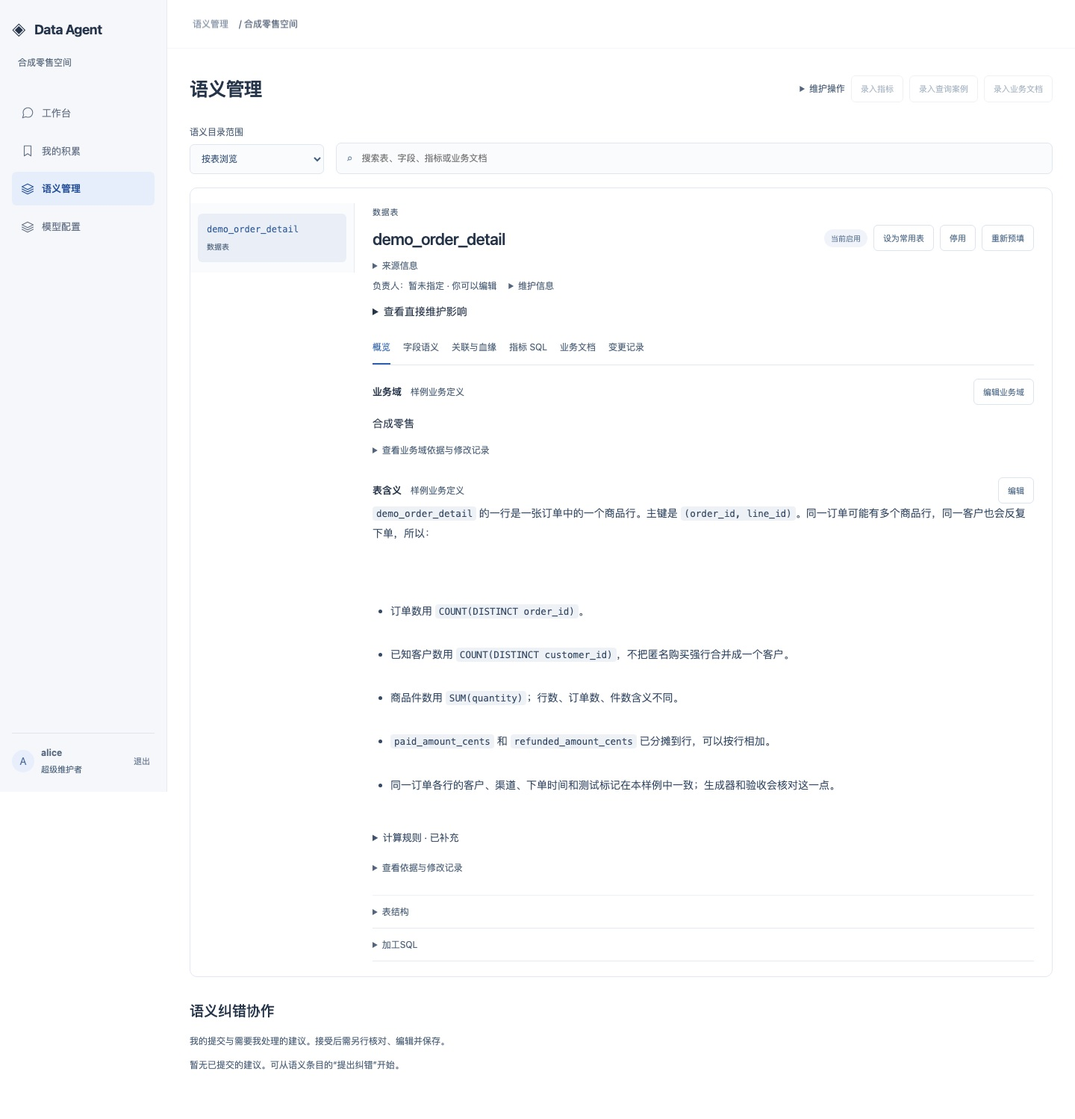
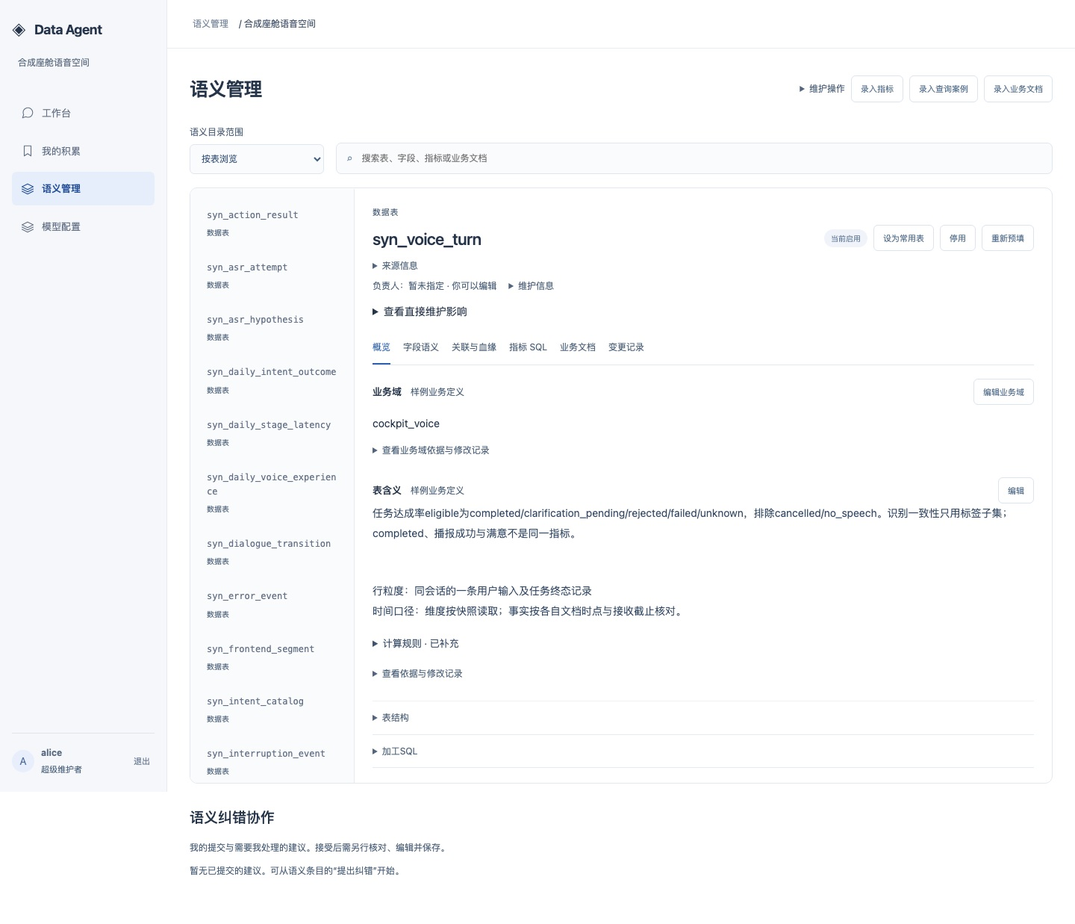
docs: refresh cockpit trial handoff and workbench screenshots

diff --git a/docs/CURRENT.md b/docs/CURRENT.md
@@ -2,12 +2,12 @@
 {
   "workflow": "development",
   "schema": 1,
-  "phase": "implementation",
-  "goal_revision": 78,
-  "environment": "提交上一轮修复；准备唯一默认数字座舱合成资料与递进Dogfood包，完成后交接给其他agent，不运行新真实Dogfood。",
+  "phase": "handoff",
+  "goal_revision": 79,
+  "environment": "座舱语音资料、100项递进Dogfood、默认mock接入及README截图完成；本地27173使用新资料，停止新增试用并交接。",
   "verification": {
     "level": "increment",
-    "reason": "保留原失败；新增通用业务、协议及浏览器回归，并独立核对修复与边界。",
+    "reason": "核对合成语音数据、语义定义、独立参考和实际API/Pi/平台/UI接入；固定mock不替代真实模型质量试用。",
     "freshness": "content",
     "checks": [],
     "inputs": [
@@ -32,8 +32,8 @@
     "increment": {
       "id": "I2-COCKPIT-DOGFOOD",
       "phase": "I2",
-      "status": "active",
-      "goal": "公开的数字座舱合成资料（至少20表10文档，计划28表14文档）与100项从易到难Dogfood交接；默认mock实际加载新资料并可执行。",
+      "status": "complete",
+      "goal": "公开的数字座舱语音交互链路合成资料（至少20表10文档，计划28表14文档）与100项递进Dogfood；默认mock加载新资料，资料准备完成后停止，不代跑真实试用。",
       "requirements": [
         "D04",
         "D06",
@@ -85,7 +85,8 @@
         "docs/architecture/implementation-design.md",
         "docs/development.md",
         "README.md",
-        "Makefile"
+        "Makefile",
+        "docs/images"
       ],
       "acceptance": [
         {
@@ -129,7 +130,7 @@
             "C07",
             "C08"
           ],
-          "expected": "新资料真实API/Worker/合成平台加载、完整目录/来源/派生血缘读取和固定mock演示；0官方调用。",
+          "expected": "真实API/Worker/合成平台导入543语义对象及17来源，完整保留全部人工正文和结构；28表/421字段/3加工节点与固定Pi草稿授权结果链、实际语义首屏通过，0官方调用。",
           "evidence_kind": "runtime",
           "command": [
             "node",
@@ -148,23 +149,22 @@
             "C07",
             "C08"
           ],
-          "expected": "契约、代码、架构和文档链接检查通过，旧测试夹具不混入新默认库。",
+          "expected": "契约、代码与架构检查通过，旧测试夹具不混入新默认库；材料链接检查另列收尾证据，不作为业务完成替代。",
           "evidence_kind": "contract",
           "command": [
             "make",
             "verify-contracts",
             "verify-code",
-            "verify-architecture",
-            "verify-materials"
+            "verify-architecture"
           ],
           "timeout_seconds": 1200
         }
       ],
       "review": {
-        "status": "pending",
+        "status": "passed",
         "record": "docs/reviews/cockpit-dogfood-review.json"
       },
-      "evidence": null
+      "evidence": ".local/delivery/I2-COCKPIT-DOGFOOD-result.json"
     }
   }
 }
@@ -174,11 +174,24 @@
 
 ## 数字座舱合成资料与Dogfood交接（2026-10-22）
 
-用户授权先提交/推送上一轮修复、同步README/文档/必要图片并更新服务，再把默认mock换成丰富数字座舱合成资料，至少20张表和10份文档；重新准备大量递进Dogfood，最后停下交给其他agent试用。计划28表、至少300字段、14份独立文档、100项案例。新增内容完全从零构造，不读取或改名复制公司资料，也不以个人记忆里的专属字段/口径作为输入。
+用户授权先提交/推送上一轮修复、同步README/文档/必要图片并更新服务，再把默认mock换成丰富数字座舱合成资料，至少20张表和10份文档；重新准备大量递进Dogfood，最后停下交给其他agent试用。计划28表、至少300字段、14份独立文档、100项案例。用户进一步明确聚焦座舱语音交互链路：唤醒/VAD/ASR/NLU与槽位/多轮对话/技能路由/动作执行回执/TTS播报/打断/反馈/端云重试；车型、版本和网络仅作背景维度。不需要原始音频。初版泛座舱（独立导航、媒体、OTA大盘）草案已作废，未进入正式资料包。需要的交互文本也完全合成，不复用真实对话。新增内容完全从零构造，不读取或改名复制公司资料，也不以个人记忆里的专属字段/口径作为输入。
 
 用户进一步明确旧零售可直接删除，不做双数据集产品、兼容迁移或旧演示维护。日常入口/语义/演示/新用例以座舱为唯一默认；仅保留现有回归确实依赖的最小零售夹具并明确选择。使用新运行目录/库切换，无需把旧查询改标成新数据。新的知识允许列表仅包含DDL、ETL及业务定义；独立数值参考、生成器和评分不进入模型输入。本轮只验证资料自洽和固定mock接入，不执行新的真实Agent Dogfood。
 
-上一轮13组增量验收与18条真实模型消息的版本证据继续保存于`.local/delivery/I2-AGENT-RELIABILITY-REPAIRS-result.json`和`.local/dogfood-runs/repairs-20261022/`。准备新包时核对默认模拟策略也要采用已实现的来源答案交付，这项兼容会补本地固定演示验证，不扩成模型规划器。当前进度/有效决定只维护本记录。
+上一轮业务修复与文档分别提交为`78262bf`、`8610110`，已快进合入默认分支`codex/semantic-maintenance-prototype`并推送。补充默认mock结果来源工具兼容的实际Pi/Rust/SQLite两消息检查通过（0官方调用），独立记录为`docs/reviews/mock-answer-compatibility-review.json`。上一轮13组增量验收与18条真实模型消息的版本证据继续保存于`.local/delivery/I2-AGENT-RELIABILITY-REPAIRS-result.json`和`.local/dogfood-runs/repairs-20261022/`。准备新包时核对默认模拟策略也要采用已实现的来源答案交付，这项兼容会补本地固定演示验证，不扩成模型规划器。当前进度/有效决定只维护本记录。
+
+资料最终为28张表、421字段、54外键、26指标、14业务文档；31,055行种子，经三个日汇总加工后33,304行。独立审查复算18,100个日指标单元格和8,286处跨表身份，核对通过。100项分L0–L6七级，含52条独立SQL参考，所有试用记录保持not_run；来源准备检查不替代真实Agent试用。
+
+接入和资料审查发现并修正：ETL字面控制字符造成Python/Rust来源正文不一致；日表SQL对半日区间静默截断；意图标签分母说明漏eligible；复杂题缺少实际重叠/多段播放/迟到回执见证；人工定义由JSON原文整理成多行正文时刷新被误清空；首屏字段挤占表目录。修复保持原引用、权限、Pi循环和单消息24次限制。9月已有407轮TTS/播放重叠、14轮多段播报、6轮父轮次及时而回执晚到。日表只支持UTC整日，非整日须回明细，参考区分首音前与完整观测窗口。
+
+验收与要求变更：统一验收器禁止把verify-materials计作业务完成，故该检查从工程验收组合移到独立收尾证据，已实际通过，未删除任何业务断言或降低要求。旧UI回归的示例名称改为语音链路概览；延迟轮询拦截URL同步为既有grouped目录接口，保持原迟到响应/人工保存断言。新试用S09补排名参考，J09改为实际可观测的TTS尝试/播放片段并明确无chunk计数，X03参考补动作及实际播报范围；没有放宽正确性或用mock替换真实模型验收。12项ingestion单元、543对象全部人工正文与结构实际导入比对及固定Pi/SQLite/UI六组验证通过。最终统一验收、独立审查、截图和Git/服务交付结果在本节收尾记录。
+
+收尾验证：来源聚合检查包含19项数据不变量及26指标76次范围检查；试用包52条独立SQL通过实际合成平台编译/执行/分页，66页1900保存行与参考一致，11项由原始记录另算。541同源契约、Rust/TypeScript/构建/架构/材料检查通过；旧工作台9组和资产页2组回归通过。README四张截图重拍为新语音资料的正式界面，模型配置图与通用架构图核对后沿用。所有截图均受控工具、实际SQL与来源答案，0付费调用。
+
+本地默认环境为`.local/development-cockpit`，工作台27173/API30780/Bridge30781/平台30790，mock/builtin/lexical，API与页面健康通过；旧零售服务已停止。检索观察：同题`syn_voice_turn`两次词法搜索HTTP200、30候选且首位目标正确，耗时12.495秒（常驻）/15.116秒（隔离），只记录为下一轮性能试用观察，不声称完成性能优化。新100项真实模型试用仍全部not_run。私有环境交接为`.local/cockpit-dogfood/HANDOFF.md`。
+
+最终四组`make verify-increment`全部通过，收据`.local/delivery/I2-COCKPIT-DOGFOOD-result.json`绑定本次实际文件；独立审查`docs/reviews/cockpit-dogfood-review.json`通过。资料与用例提交`d5bce9b`，接入修复提交`1785dcd`，README/图片/文档和当前记录单独提交。交付沿既定规则先快进合入默认分支`codex/semantic-maintenance-prototype`再推送；Git与本地服务最终核对回执保存于`.local/cockpit-dogfood/`。本轮到资料与环境交接为止，100项结果不预填通过。
+
 
 
 ## 第二版 Dogfood 根因修复（2026-10-22）

diff --git a/docs/development.md b/docs/development.md
@@ -93,7 +93,9 @@ make vm-stop
 
 ## 4. 正式工作台与增量检查
 
-`make dev` 构建Rust和React，并启动API（8780）、Pi Bridge（8781）、Worker及Vite（5173）。全部仅监听回环地址；端口已占用时失败，不关闭其他进程。用`.local/development/identities.json`中的alice或bob值登录，文件由启动器生成并设为0600。已有身份文件保留；Ctrl+C仅关闭当前应用进程，MySQL会话数据保留。`make verify-startup`验证同一启动器后自行停止。
+`make dev` 构建Rust和React，并启动API（8780）、Pi Bridge（8781）、Worker及Vite（5173）。全部仅监听回环地址；端口已占用时失败，不关闭其他进程。用`.local/development-cockpit/identities.json`中的alice或bob值登录，文件由启动器生成并设为0600。已有身份文件保留；Ctrl+C仅关闭当前应用进程，MySQL会话数据保留。`make verify-startup`验证同一启动器后自行停止。
+
+默认来源为`docs/sources/cockpit`，日常运行目录为`.local/development-cockpit`。mock启动器按运行目录建立稳定的独立MySQL库，并写出不含凭据的`environment.json`；API、Worker和平台共同加载这份资料。换运行目录会得到另一隔离环境，重启同一目录保留会话。旧零售只用于已有回归测试，测试显式选择旧来源，不与新日常库混用。
 
 本地身份文件可添加开发账号（例如 `carol`），使用独立生成的64字符随机凭据；重启启动器后生效。`internal` 仅供服务间调用，不注册为登录账号。新增身份本身不授予语义维护权：在本地 Datasight mock 的 `catalog.json` 中指定样例表的 `maintainer_id`，由超级维护者调用 `/source-syncs` 同步后，表负责人才能编辑相应语义。这样可同时保留超级维护者、表语义维护者和普通用户进行试用。
 
@@ -165,7 +167,9 @@ python3 scripts/development.py --model deepseek \
 
 ### 定向试用与问题复核
 
-使用120项手册时，API、Worker与平台统一指定`DATA_AGENT_SYNTHETIC_SOURCE_DIRECTORY=docs/sources/analysis`。该资料是连续月份样例，与默认旧样例分开；不能混用另一运行目录的参考数字。角色在实际环境重新核对，凭据只取相应运行目录的`identities.json`，不要放进报告或模型提示。
+当前使用[座舱语音100项试用包](dogfood/cockpit/README.md)，按准备说明检查资料与服务，真实模型试用另按用户授权执行。`make verify-cockpit`只检查数据、语义、用例和固定mock接入，不代跑100项真实试用。
+
+重放历史120项手册时，API、Worker与平台统一指定`DATA_AGENT_SYNTHETIC_SOURCE_DIRECTORY=docs/sources/analysis`。该资料是历史连续月份零售夹具，与当前座舱语音默认资料分开；不能混用另一运行目录的参考数字。角色在实际环境重新核对，凭据只取相应运行目录的`identities.json`，不要放进报告或模型提示。
 
 优先按[试用交叉审计](reviews/dogfood-20261019.md)复测限定域查空/明确扩大、歧义先澄清/已采用口径直接继续、整数分/元两位，以及含粘贴SQL的修改后执行。模型行为查看实际工具参数、回执与持久回复，不能只看回复是否声称遵守范围。执行被明确拒绝后可在原请求仍有效时修正工具参数；unknown则沿原身份查证，保留预留，不能换ID重做。
 
@@ -400,16 +404,18 @@ node tests/mvp/check-asset-editor-browser.mjs
 - **业务文档**：打开一篇完整文档，使用“编辑文档”修改全文，包括标题、序言和章节。一次保存核对全体版本；发生冲突保留草稿。全文读取不截断，单次保存上限10万字符，超限在编辑时提示并保留草稿。旧的后台分段引用继续有效地参与权限和版本检查。
 - **我的积累**：新增Skill可从三个示例开始，再改写内容和适用范围。文本附件使用英文名称（例如 `report.md`），目录前缀由页面补齐；保存之后仍需明确选用。字段变化会撤销旧核对标记。
 
-可执行合成平台包含 `demo_order_detail`、`raw_order_lines`、`raw_payments`、`dim_customers`、`customer_tags` 五张表。语义目录中不同来源的记录数不等于实际表数。没有把同名但来源不同的对象自动合并；千表与真实 Datasight 仍需单独接入验收。
+默认可执行合成平台包含28张`syn_`语音链路表，详见[资料说明](sources/cockpit/README.md)。历史零售五表仅供已有回归。语义目录中不同来源的记录数不等于实际表数。没有把同名但来源不同的对象自动合并；千表与真实 Datasight 仍需单独接入验收。
 
 本轮针对性验证入口：`check-message-markdown.mjs`、`check-conversation-experience-browser.mjs`、`check-knowledge-experience-browser.mjs`、`check-asset-experience-browser.mjs`。`check-experience-regressions.mjs`复跑原资产、语义协作与管理按钮的受影响流程；命令均位于 `tests/mvp`，使用隔离数据，不修改试用库。完成状态与结果只以 [CURRENT](CURRENT.md) 的本增量记录为准。
 
 ## 聊天生成、修订和执行 SQL
 
-1. 提问“查2026年1月净收入”，查看SQL和参数，当前不会取数。
-2. 发送“仅看app渠道”，SQL更新，仍不执行。
-3. 发送“执行上面这条”，查询完成后自动显示结果与实际执行SQL；合成样例为1600分。
-4. 也可发送“改成2月，再执行”，同条消息完成修订及执行；“只改成2月”则只展示新稿。
+以下为真实模型的交互方式；默认mock只演示达成率草稿、执行及两个说明入口。
+
+1. 提问“查2026年9月语音任务达成率”，查看SQL和参数，当前不会取数。
+2. 发送“按车型分组”，SQL更新，仍不执行。
+3. 发送“执行上面这条”，查询完成后自动显示结果与实际执行SQL，达成数、分母和百分比分列。
+4. 也可发送“改成8月，再执行”，同条消息完成修订及执行；“只改成8月”则只展示新稿。
 
 可以粘贴自己的SQL及参数要求执行，也可直接引用上文。代码框右上复制包含SQL和以JSON注释标明的绑定参数；这些值由Agent读取，外部客户端需自行绑定。指代不明时Agent先问清楚。运行中“停止”只作用于该查询，取消完成以平台回执为准。
 

diff --git a/docs/images/README.md b/docs/images/README.md
@@ -1,6 +1,6 @@
 # README 图片来源
 
-这些图片用于[项目首页](../../README.md)，共 11 张：1 张封面、4 张概念说明图、5 张实际页面截图和 1 张正式架构图。四张说明图和五张页面截图于 2026-10-20 更新。
+这些图片用于[项目首页](../../README.md)，共 11 张：1 张封面、4 张概念说明图、5 张实际页面截图和 1 张正式架构图。四张说明图和模型配置截图于 2026-10-20 更新；工作台、报告、语义管理和个人 Skill 四张截图于 2026-10-22 换为座舱语音资料。
 
 ## 视觉方向
 
@@ -15,26 +15,26 @@
 | [conversation-query-flow.png](conversation-query-flow.png) | 2026-10-20 重绘。从问题、SQL 草稿和聊天授权，到后台查询、分析依据与本人报告；每份依据保留原条件与来源。 |
 | [knowledge-recall.png](knowledge-recall.png) | 2026-10-20 重绘。共享语义与个人记忆分别检索；报告和个人方法保存来源，再次读取时重新核验。 |
 | [skill-reuse.png](skill-reuse.png) | 2026-10-20 重绘。分析成果先形成本人方法草稿，编辑保存后成为个人 Skill；明确发布生成独立公共副本，明确选用后由 Pi 按需读取。 |
-| [workbench-sql.jpg](workbench-sql.jpg) | 2026-10-20，当前工作台截图。合成一季度月度净收入、实际 SQL、CSV 下载和模型选择。 |
-| [analysis-report.png](analysis-report.png) | 2026-10-20，当前分析报告截图。滚动至主要结论与图表，展示精确金额、解读范围和查询来源。 |
-| [semantic-management.jpg](semantic-management.jpg) | 2026-10-20，当前语义管理页。合成管理员 Alice 按表浏览订单资料与维护入口。 |
-| [personal-skills.png](personal-skills.png) | 2026-10-20，当前“确认个人 Skill”页面。核对本次分析形成的方法草稿、适用范围与附件，再保存为本人资产。 |
+| [workbench-sql.jpg](workbench-sql.jpg) | 2026-10-22，当前工作台截图。合成座舱语音的月度任务达成率、实际 SQL、已完成查询和 CSV 下载。 |
+| [analysis-report.png](analysis-report.png) | 2026-10-22，当前分析报告截图。滚动至主要结论与趋势图，展示月度达成率、合格分母、解读限制和查询来源。 |
+| [semantic-management.jpg](semantic-management.jpg) | 2026-10-22，当前语义管理页。合成管理员 Alice 查看 syn_voice_turn 的粒度、状态、时间与维护入口。 |
+| [personal-skills.png](personal-skills.png) | 2026-10-22，当前“确认个人 Skill”页面。核对语音任务达成率分析形成的方法、适用范围与附件，再保存为本人资产。 |
 | [model-configuration.png](model-configuration.png) | 2026-10-20，当前模型配置页。合成管理员维护示例服务与模型；只展示凭据已设置状态，未连接真实供应商。 |
 | [data-agent-overview.svg](../architecture/data-agent-overview.svg) | 2026-10-20 已更新的正式架构总览，本次重新核对；另有[可编辑 draw.io](../architecture/data-agent-c4-container.drawio)。 |
 
 ## 页面截图如何取得
 
-截图沿用仓库 `tests/mvp/harness.mjs`，启动隔离数据库、当前 Rust API / Worker、合成 SQLite 平台和 React 页面；浏览器视口为 1440 × 1060。合成数据来自 `docs/sources/analysis`，查询采用该目录中独立验收的月度净收入 SQL。一月至三月的净收入分别为 102000、113000、134000 分，截图没有换算成元。
+截图沿用仓库 `tests/mvp/harness.mjs`，启动隔离数据库、当前 Rust API / Worker、合成 SQLite 平台和 React 页面；浏览器视口为 1440 × 1060。四张新截图的合成数据来自 `docs/sources/cockpit`。查询按轮次 UTC 开始日汇总七月至九月的达成数与合格轮次数，再在 SQL 中计算百分比；快照截止时间为 `2026-10-04T00:00:00Z`。取消和无语音不进入合格分母，失败、拒绝、未知与待澄清仍保留。使用日表时只接受整日边界。
 
-工具选择和对话正文由截图脚本控制。SQL 经聊天执行授权工具提交，在合成平台实际运行；分析依据、报告和待确认方法由正式业务入口保存，再从真实页面截图。个人方法随后通过页面确认保存。该过程没有调用付费模型，不证明模型能自主完成同样的分析。
+工具选择和说明文字由截图脚本控制。SQL 经聊天执行授权工具提交，在合成平台实际运行；定量正文通过 `present_analysis_answer` 引用真实结果单元格，由业务端生成。分析依据、报告和待确认方法由正式业务入口保存，再从真实页面截图。个人方法随后通过页面确认保存。该过程没有调用付费模型，不证明模型能自主完成同样的分析。
 
-模型管理图中的服务名称、模型限制和价格是隔离环境的示例配置，不是供应商报价或兼容性验证。凭据为专用合成占位值，不出现在截图中。截图未读取本地日常试用聊天，未改写页面 DOM 或拼接界面；报告只通过正常滚动定位。截图环境结束后关闭并清理，不影响原本地服务。
+保留的模型配置截图来自 2026-10-20 独立环境，其中服务名称、模型限制和价格是隔离环境的示例配置，不是供应商报价或兼容性验证。凭据为专用合成占位值，不出现在截图中。截图未读取本地日常试用聊天，未改写页面 DOM 或拼接界面；报告只通过正常滚动定位。截图环境结束后关闭并清理，不影响原本地服务。
 
 旧图及旧提示词可以从 Git 历史查看。真实模型、真实平台的验证范围仍以 [CURRENT](../CURRENT.md) 为准。
 
 ## 生成提示词
 
-使用内置 `image_gen`，未使用 CLI 或额外 API 凭据。四张新图分别以对应旧图作为视觉风格参考，完整重绘内容。以下保留本次实际提示词和沿用封面的原始提示词。
+以下保留封面及 2026-10-20 四张概念说明图的生成提示词。说明图使用内置 `image_gen`，以对应旧图作为视觉风格参考，完整重绘内容；没有使用 CLI 或额外 API 凭据。
 
 <details>
 <summary>封面 · data-agent-cover.png</summary>

diff --git a/docs/architecture/implementation-design.md b/docs/architecture/implementation-design.md
@@ -1,6 +1,6 @@
 # Data Agent 实现设计
 
-更新：2026-10-20。状态：设计与实施契约；实际完成范围及证据见CURRENT。产品范围沿用 [系统设计第 17–20 节](../semantic-retrieval-design.md#17-实施基线与交付顺序2026-10-02)，当前阶段与证据只记录在 [CURRENT](../CURRENT.md)。
+更新：2026-10-22。状态：设计与实施契约；实际完成范围及证据见CURRENT。产品范围沿用 [系统设计第 17–20 节](../semantic-retrieval-design.md#17-实施基线与交付顺序2026-10-02)，当前阶段与证据只记录在 [CURRENT](../CURRENT.md)。
 
 本次补充[系统内部权限](../semantic-retrieval-design.md#61-语义维护权限与平台数据权限)与[跨用户纠错](../semantic-retrieval-design.md#117-跨用户纠错与共享语义维护)：表负责人或超级维护者处理建议，接受后编辑保存才生效。相关授权、协作接口及页面已接入本轮增量；Datasight 查询与执行权限继续独立校验。
 
@@ -18,6 +18,8 @@
 | 第二版的增量、接口归属与依赖 | [语义、澄清与分析能力执行包](../analysis-capabilities-execution.md)；阶段契约，实施与证据以CURRENT为准 |
 
 来源可信增量复用现有边界：平台适配器冻结合成运行资料，M03保存包括语义目录在内的来源快照，M02合并候选并保护人工值，具名同步用例组合两者。M07保存平台检查的目标修订并沿版提交；明确版本拒绝是确定失败。合成文档身份映射只用于资料关联，不传播维护权或引入新进程。实际验收范围见CURRENT。
+
+默认合成资料为[座舱语音链路](../sources/cockpit/README.md)。M03从显式打包的17份来源读取正文并核对SHA与核心文件字节，按所属表刷新字段类型；平台适配器从已核对SQLite结构建立可读表集合，分别返回三张日汇总的实际ETL和上游。生成器、seed与Dogfood参考不进入知识包。启动器将新资料绑定到独立的持久开发库，已有Pi、权限和查询模块边界保持。
 
 Markdown 中的接口和图是设计源；图册是生成的阅读视图，不维护另一份需求。原有 C4 容器图继续解释部署边界，本次组件图解释内部代码职责。
 

diff --git a/docs/sources/README.md b/docs/sources/README.md
@@ -1,4 +1,8 @@
-# 可公开的合成零售样例
+# 合成资料入口与历史零售回归夹具
+
+日常默认已切换到[座舱语音资料](cockpit/README.md)：28表、421字段、26指标和14份文档；配套[100项递进Dogfood](../dogfood/cockpit/README.md)。本目录根部五表和`analysis/`只保留已有回归所需的输入与独立答案，不再用于默认演示。
+
+## 历史零售夹具
 
 本目录全部业务材料从零构造，不包含真实公司元数据、加工 SQL、订单、客户或内部链接。样例只有演示用途，不复制任何真实业务口径。
 
